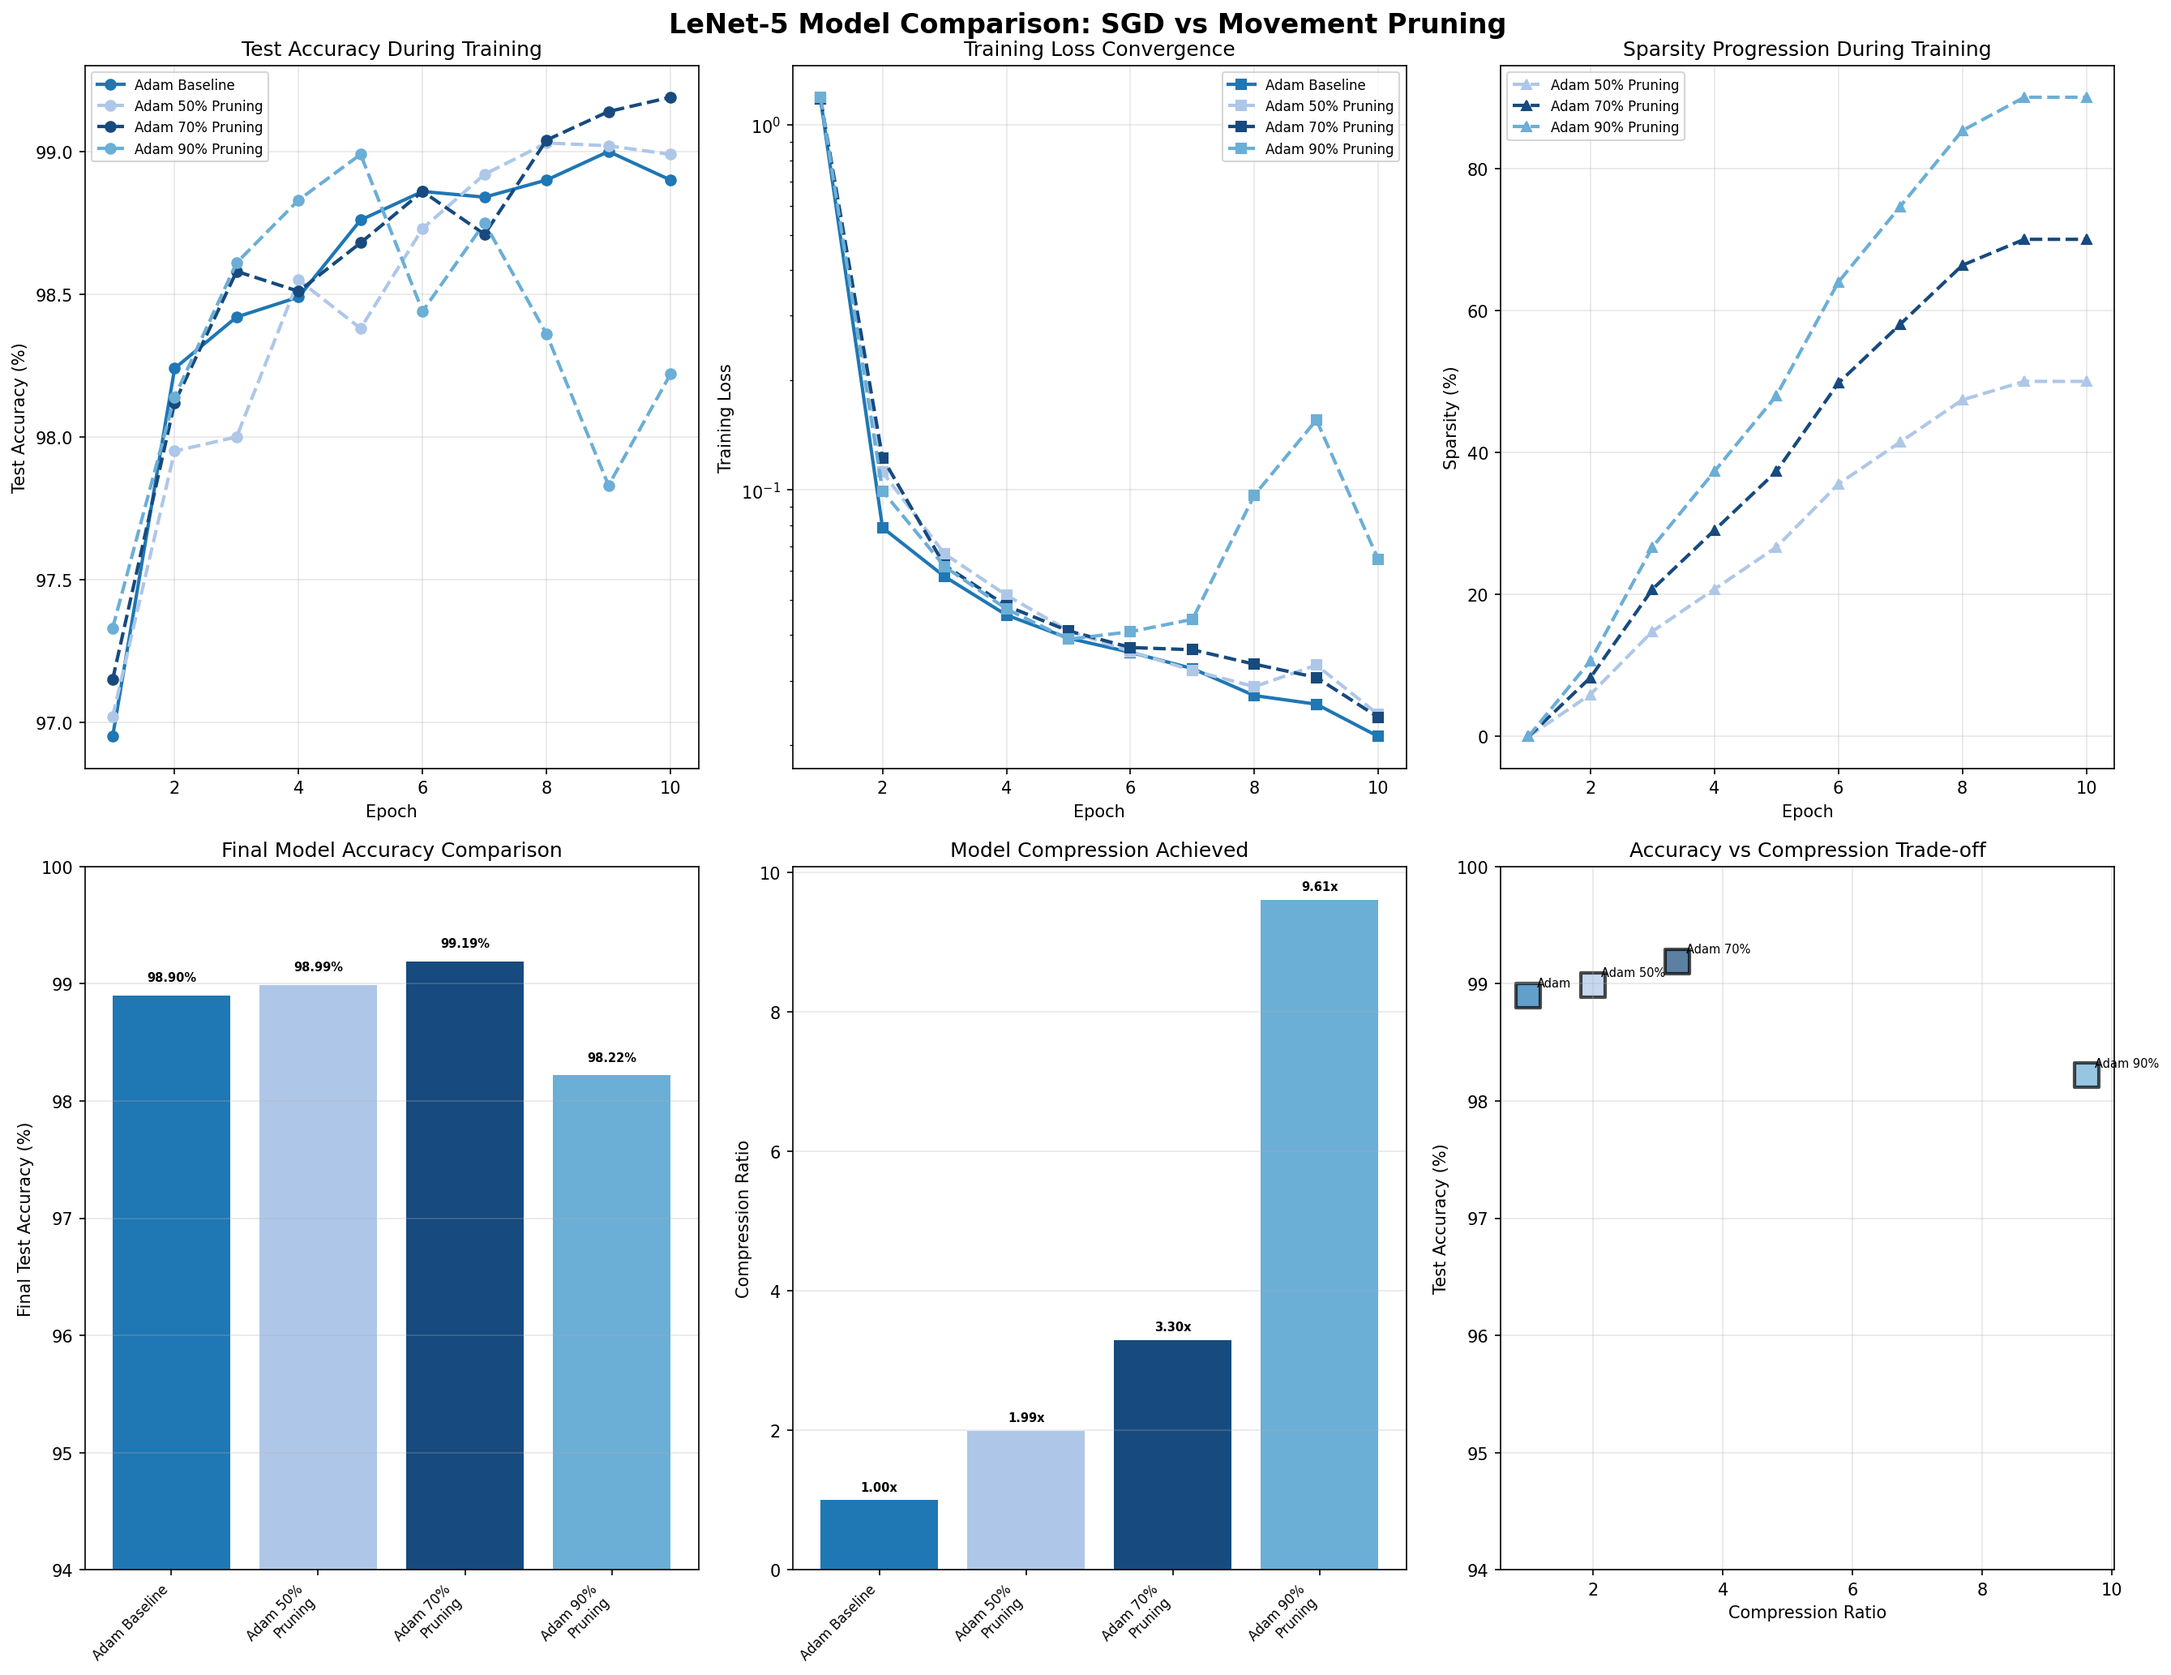
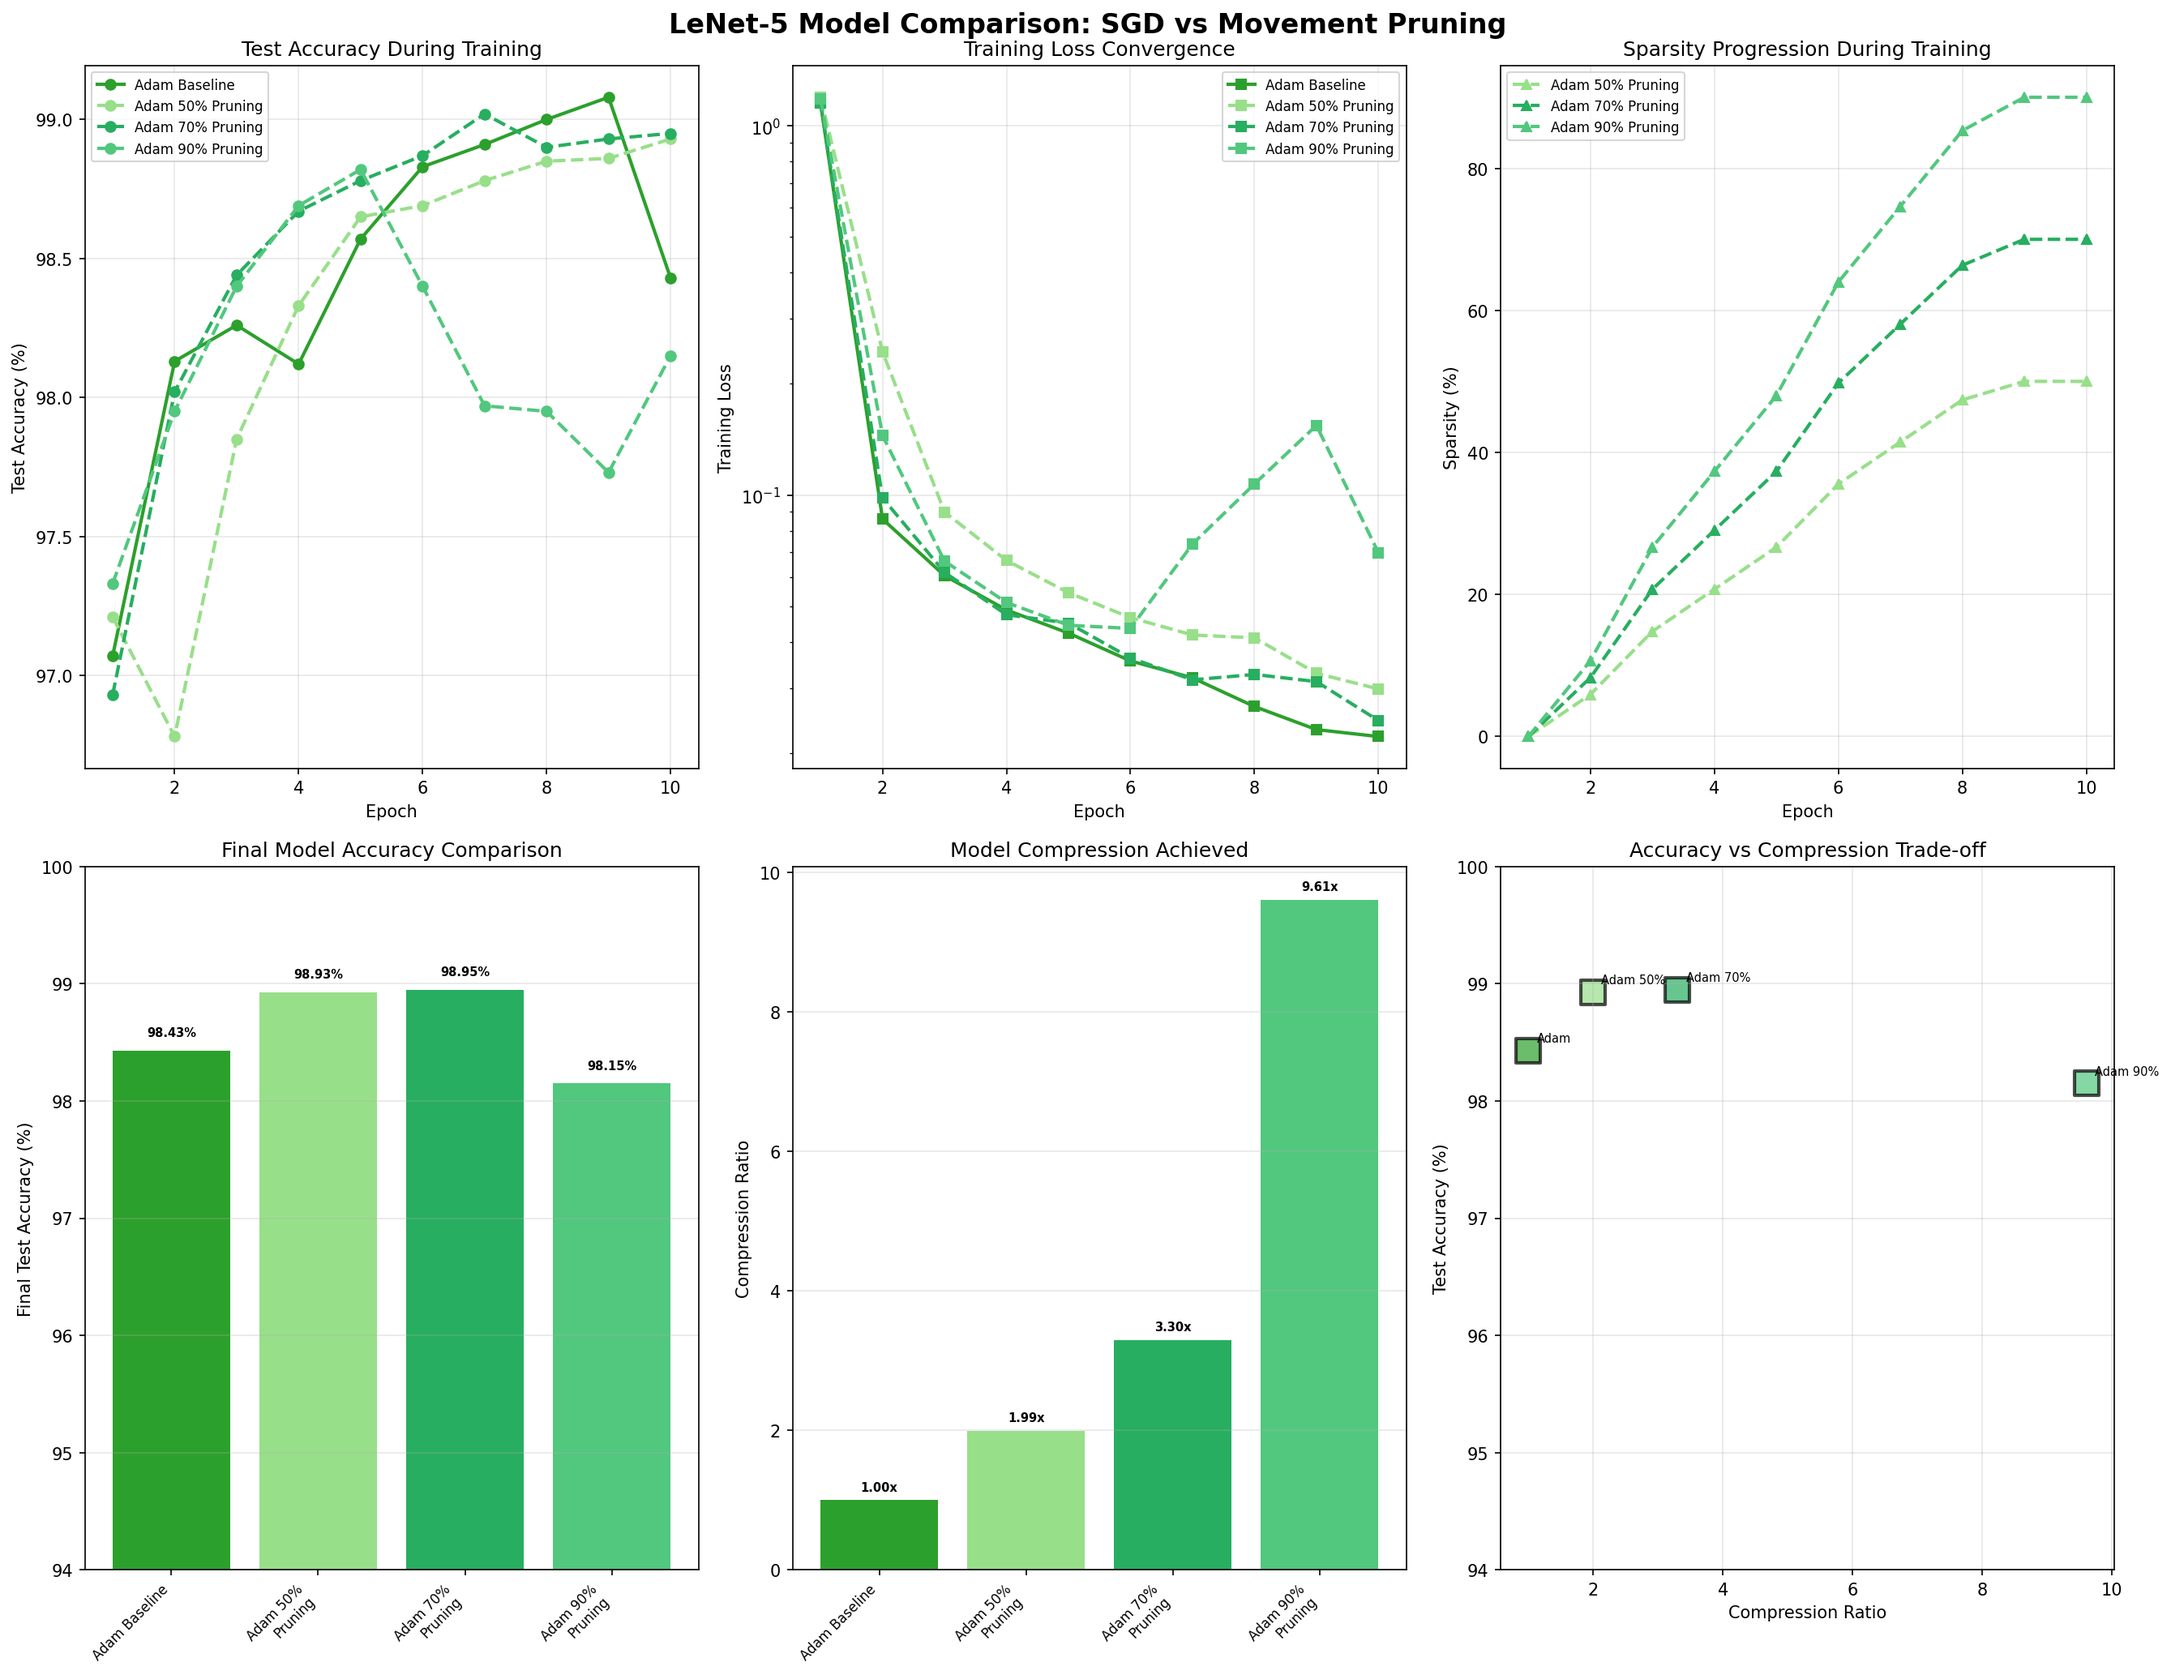
train.py: add AdamW Advanced optimizer
Add a collection of pruning stability enhancements on top of AdamW and
just refer to it as AdamWAdv as an optimizer option we can use during
testing.

AdamWAdv includes:
- AMSGrad for convergence guarantees
- Cosine annealing LR schedule
- Gradient clipping (norm=1.0)
- Stronger weight decay (0.01)

Also enhance plot_comparison.py to use distinct colors for each optimizer:
- SGD: blues
- Adam: greens
- AdamW: oranges
- AdamWAdv: reds

And fix the Makefile adam-movement target which incorrectly used adamw.

Generated-by: Claude AI

diff --git a/plot_comparison.py b/plot_comparison.py
@@ -56,7 +56,7 @@ parser.add_argument(
     "--test-prefix",
     type=str,
     default="SGD",
-    choices=["SGD", "Adam", "AdamW"],
+    choices=["SGD", "Adam", "AdamW", "AdamWAdv"],
     help='Prefix to use for tests labels (default: "SGD")',
 )
 parser.add_argument(
@@ -99,26 +99,32 @@ fig.suptitle(
 )
 
 # Define colors for different optimizers
-sgd_colors = ["#1f77b4", "#aec7e8", "#174a7e", "#6baed6"]
-sgd_colors = ["#1f77b4", "#aec7e8", "#174a7e", "#6baed6"]
-adamw_colors = ["#ff7f0e", "#d62728"]
+sgd_colors = ["#1f77b4", "#aec7e8", "#174a7e", "#6baed6"]  # Blues
+adam_colors = ["#2ca02c", "#98df8a", "#27ae60", "#52c77e"]  # Greens
+adamw_colors = ["#ff7f0e", "#ffbb78", "#ff9800", "#ffc947"]  # Oranges
+adamwadv_colors = ["#d62728", "#ff9896", "#e74c3c", "#ffb3ba"]  # Reds
 
 
 def get_color_and_style(name):
-    if "AdamW" in name:
-        if "Baseline" in name:
-            return adamw_colors[0], "-"
-        else:
-            return adamw_colors[1], "--"
+    # Determine the optimizer type from the name
+    if "AdamWAdv" in name or "adamwadv" in name.lower():
+        colors = adamwadv_colors
+    elif "AdamW" in name or "adamw" in name.lower():
+        colors = adamw_colors
+    elif "Adam" in name or "adam" in name.lower():
+        colors = adam_colors
     else:  # SGD
-        if "Baseline" in name:
-            return sgd_colors[0], "-"
-        elif "50%" in name:
-            return sgd_colors[1], "--"
-        elif "70%" in name:
-            return sgd_colors[2], "--"
-        else:  # 90%
-            return sgd_colors[3], "--"
+        colors = sgd_colors
+
+    # Determine which variant (baseline, 50%, 70%, 90%)
+    if "Baseline" in name:
+        return colors[0], "-"
+    elif "50%" in name:
+        return colors[1], "--"
+    elif "70%" in name:
+        return colors[2], "--"
+    else:  # 90%
+        return colors[3], "--"
 
 
 # 1. Accuracy over epochs
@@ -231,7 +237,15 @@ labels = [name for name, _ in sorted_models]
 
 for i, (comp, acc, label) in enumerate(zip(compression_ratios, final_accs, labels)):
     color = get_color_and_style(label)[0]
-    marker = "o" if "SGD" in label else "s"
+    # Different markers for different optimizers
+    if "SGD" in label or "sgd" in label.lower():
+        marker = "o"
+    elif "AdamWAdv" in label or "adamwadv" in label.lower():
+        marker = "D"  # Diamond
+    elif "AdamW" in label or "adamw" in label.lower():
+        marker = "^"  # Triangle up
+    else:  # Adam
+        marker = "s"  # Square
     ax6.scatter(
         comp,
         acc,
@@ -288,7 +302,15 @@ fig2.suptitle(
 
 for name, data in sorted_models:
     color, style = get_color_and_style(name)
-    marker = "o" if "SGD" in name else "s"
+    # Different markers for different optimizers
+    if "SGD" in name or "sgd" in name.lower():
+        marker = "o"
+    elif "AdamWAdv" in name or "adamwadv" in name.lower():
+        marker = "D"  # Diamond
+    elif "AdamW" in name or "adamw" in name.lower():
+        marker = "^"  # Triangle up
+    else:  # Adam
+        marker = "s"  # Square
     ax.plot(
         data["epochs"],
         data["accuracies"],

diff --git a/train.py b/train.py
@@ -4,6 +4,7 @@ import torch.nn as nn
 import torchvision
 import torchvision.transforms as transforms
 from torch.amp import autocast, GradScaler
+from torch.optim.lr_scheduler import CosineAnnealingLR
 import time
 import logging
 import json
@@ -36,7 +37,7 @@ parser.add_argument(
     "--optimizer",
     type=str,
     default="sgd",
-    choices=["sgd", "adam", "adamw"],
+    choices=["sgd", "adam", "adamw", "adamwadv"],
     help="Optimizer to use for training (default: sgd)",
 )
 parser.add_argument(
@@ -217,6 +218,9 @@ else:
 cost = nn.CrossEntropyLoss()
 
 # Setting the optimizer with the model parameters and learning rate
+scheduler = None
+gradient_clip_norm = None
+
 if args.optimizer == "adam":
     optimizer = torch.optim.Adam(model.parameters(), lr=learning_rate)
     logger.info("Using Adam optimizer")
@@ -225,6 +229,25 @@ elif args.optimizer == "adamw":
         model.parameters(), lr=learning_rate, weight_decay=1e-4
     )
     logger.info("Using AdamW optimizer with weight decay=0.01")
+elif args.optimizer == "adamwadv":
+    # AdamW Advanced with all enhancements
+    optimizer = torch.optim.AdamW(
+        model.parameters(),
+        lr=learning_rate,
+        betas=(0.9, 0.999),
+        eps=1e-8,
+        weight_decay=0.01,  # Stronger weight decay for better regularization
+        amsgrad=True,  # AMSGrad variant for better convergence
+    )
+    # Cosine annealing learning rate scheduler
+    scheduler = CosineAnnealingLR(optimizer, T_max=num_epochs, eta_min=1e-6)
+    # Gradient clipping for stability
+    gradient_clip_norm = 1.0
+    logger.info("Using AdamW Advanced optimizer with:")
+    logger.info("  - AMSGrad enabled for better convergence")
+    logger.info("  - Weight decay=0.01 for stronger regularization")
+    logger.info("  - Cosine annealing LR schedule")
+    logger.info("  - Gradient clipping norm=1.0")
 else:
     optimizer = torch.optim.SGD(model.parameters(), lr=learning_rate, momentum=0.9)
     logger.info("Using SGD optimizer with momentum=0.9")
@@ -308,6 +331,12 @@ for epoch in range(num_epochs):
         # Backward and optimize with gradient scaling
         optimizer.zero_grad(set_to_none=True)  # More efficient than zero_grad()
         scaler.scale(loss).backward()
+
+        # Apply gradient clipping if enabled (for AdamWAdv)
+        if gradient_clip_norm is not None:
+            scaler.unscale_(optimizer)
+            torch.nn.utils.clip_grad_norm_(model.parameters(), gradient_clip_norm)
+
         scaler.step(optimizer)
         scaler.update()
 
@@ -398,6 +427,12 @@ for epoch in range(num_epochs):
             else 0
         )
         training_metrics["epochs"].append(epoch_metrics)
+
+        # Step the learning rate scheduler if using AdamWAdv
+        if scheduler is not None:
+            scheduler.step()
+            current_lr = scheduler.get_last_lr()[0]
+            logger.info(f"Learning rate adjusted to: {current_lr:.6f}")
 
 total_time = time.time() - start_time
 logger.info(f"Training completed in {total_time:.2f} seconds")

diff --git a/README.md b/README.md
@@ -29,6 +29,39 @@ Movement pruning is implemented based on the paper ["Movement Pruning: Adaptive 
 
 3. **Global Magnitude Pruning**: Uses a global threshold across all layers for balanced compression
 
+## AdamW Advanced (AdamWAdv)
+
+AdamWAdv is an enhanced version of the AdamW optimizer that includes all recommended optimizations for improved training stability and convergence. This configuration combines multiple techniques that have been shown to improve neural network training:
+
+### Features and References
+
+1. **AMSGrad**: Ensures convergence by maintaining the maximum of exponential moving average of squared gradients
+   - Reference: ["On the Convergence of Adam and Beyond"](https://arxiv.org/abs/1904.09237) (Reddi et al., 2018)
+
+2. **Cosine Annealing Learning Rate Schedule**: Smoothly reduces learning rate following a cosine curve
+   - Reference: ["SGDR: Stochastic Gradient Descent with Warm Restarts"](https://arxiv.org/abs/1608.03983) (Loshchilov & Hutter, 2017)
+
+3. **Gradient Clipping**: Prevents gradient explosions by limiting the norm of gradients
+   - Reference: ["On the difficulty of training recurrent neural networks"](https://arxiv.org/abs/1211.5063) (Pascanu et al., 2013)
+
+4. **Decoupled Weight Decay**: AdamW's core feature that decouples weight decay from gradient-based optimization
+   - Reference: ["Decoupled Weight Decay Regularization"](https://arxiv.org/abs/1711.05101) (Loshchilov & Hutter, 2019)
+
+5. **Tuned Hyperparameters**:
+   - Weight decay = 0.01 for stronger regularization
+   - β₁ = 0.9, β₂ = 0.999 (standard values)
+   - ε = 1e-8 for numerical stability
+
+### Usage
+
+```bash
+# Train with AdamW Advanced optimizer
+python train.py --optimizer adamwadv
+
+# Combine with movement pruning
+python train.py --optimizer adamwadv --pruning-method movement --target-sparsity 0.9
+```
+
 ## Install dependencies
 
 ```bash
@@ -53,14 +86,20 @@ SGD Baseline              96.24       % 1.00        x 61,750/61,750   16.39     
 SGD 50% Pruning           97.02       % 1.99        x 31,015/61,750   16.28       s
 SGD 70% Pruning           96.16       % 3.30        x 18,721/61,750   16.18       s
 SGD 90% Pruning           95.31       % 9.61        x 6,427/61,750    16.12       s
-Adam Baseline             98.90       % 1.00        x 61,750/61,750   16.34       s
-Adam 50% Pruning          98.99       % 1.99        x 31,015/61,750   16.31       s
-Adam 70% Pruning          99.19       % 3.30        x 18,721/61,750   16.17       s
-Adam 90% Pruning          98.22       % 9.61        x 6,427/61,750    16.43       s
+Adam Baseline             98.43       % 1.00        x 61,750/61,750   16.96       s
+Adam 50% Pruning          98.93       % 1.99        x 31,015/61,750   16.66       s
+Adam 70% Pruning          98.95       % 3.30        x 18,721/61,750   16.29       s
+Adam 90% Pruning          98.15       % 9.61        x 6,427/61,750    16.61       s
 AdamW Baseline            98.84       % 1.00        x 61,750/61,750   16.31       s
 AdamW 50% Pruning         98.85       % 1.99        x 31,015/61,750   16.32       s
 AdamW 70% Pruning         98.99       % 3.30        x 18,721/61,750   16.46       s
 AdamW 90% Pruning         97.97       % 9.61        x 6,427/61,750    16.45       s
+AdamWAdv Baseline         98.83       % 1.00        x 61,750/61,750   17.25       s
+AdamWAdv 50% Pruning      99.08       % 1.99        x 31,015/61,750   16.43       s
+AdamWAdv 70% Pruning      98.64       % 3.30        x 18,721/61,750   16.79       s
+AdamWAdv 90% Pruning      87.80       % 9.61        x 6,427/61,750    16.76       s
+================================================================================
+
 ================================================================================
 
 ```
@@ -92,7 +131,7 @@ python train.py --pruning-method movement --target-sparsity 0.7 --pruning-warmup
 
 ### Command-Line Arguments
 
-- `--optimizer`: Optimizer to use, by default we use "SGD", other options are "adam", "adamw"
+- `--optimizer`: Optimizer to use, by default we use "SGD", other options are "adam", "adamw", "adamwadv"
 - `--pruning-method`: Pruning method to use (`none` or `movement`, default: `none`)
 - `--target-sparsity`: Target sparsity level 0.0-1.0 (default: `0.9`)
 - `--pruning-warmup`: Number of training steps before pruning starts (default: `100`)
@@ -122,6 +161,14 @@ python train.py --pruning-method movement --target-sparsity 0.7 --pruning-warmup
 *Comparison of all model configurations*
 
 ![Accuracy Evolution](images/adamw-with-movement-accuracy_evolution.png)
+*Test accuracy evolution across epochs for different pruning levels*
+
+## AdamWAdv
+
+![Model Comparison](images/adamwadv-with-movement-pruning-model_comparison.png)
+*Comparison of all model configurations*
+
+![Accuracy Evolution](images/adamwadv-with-movement-accuracy_evolution.png)
 *Test accuracy evolution across epochs for different pruning levels*
 
 ## Visualization
